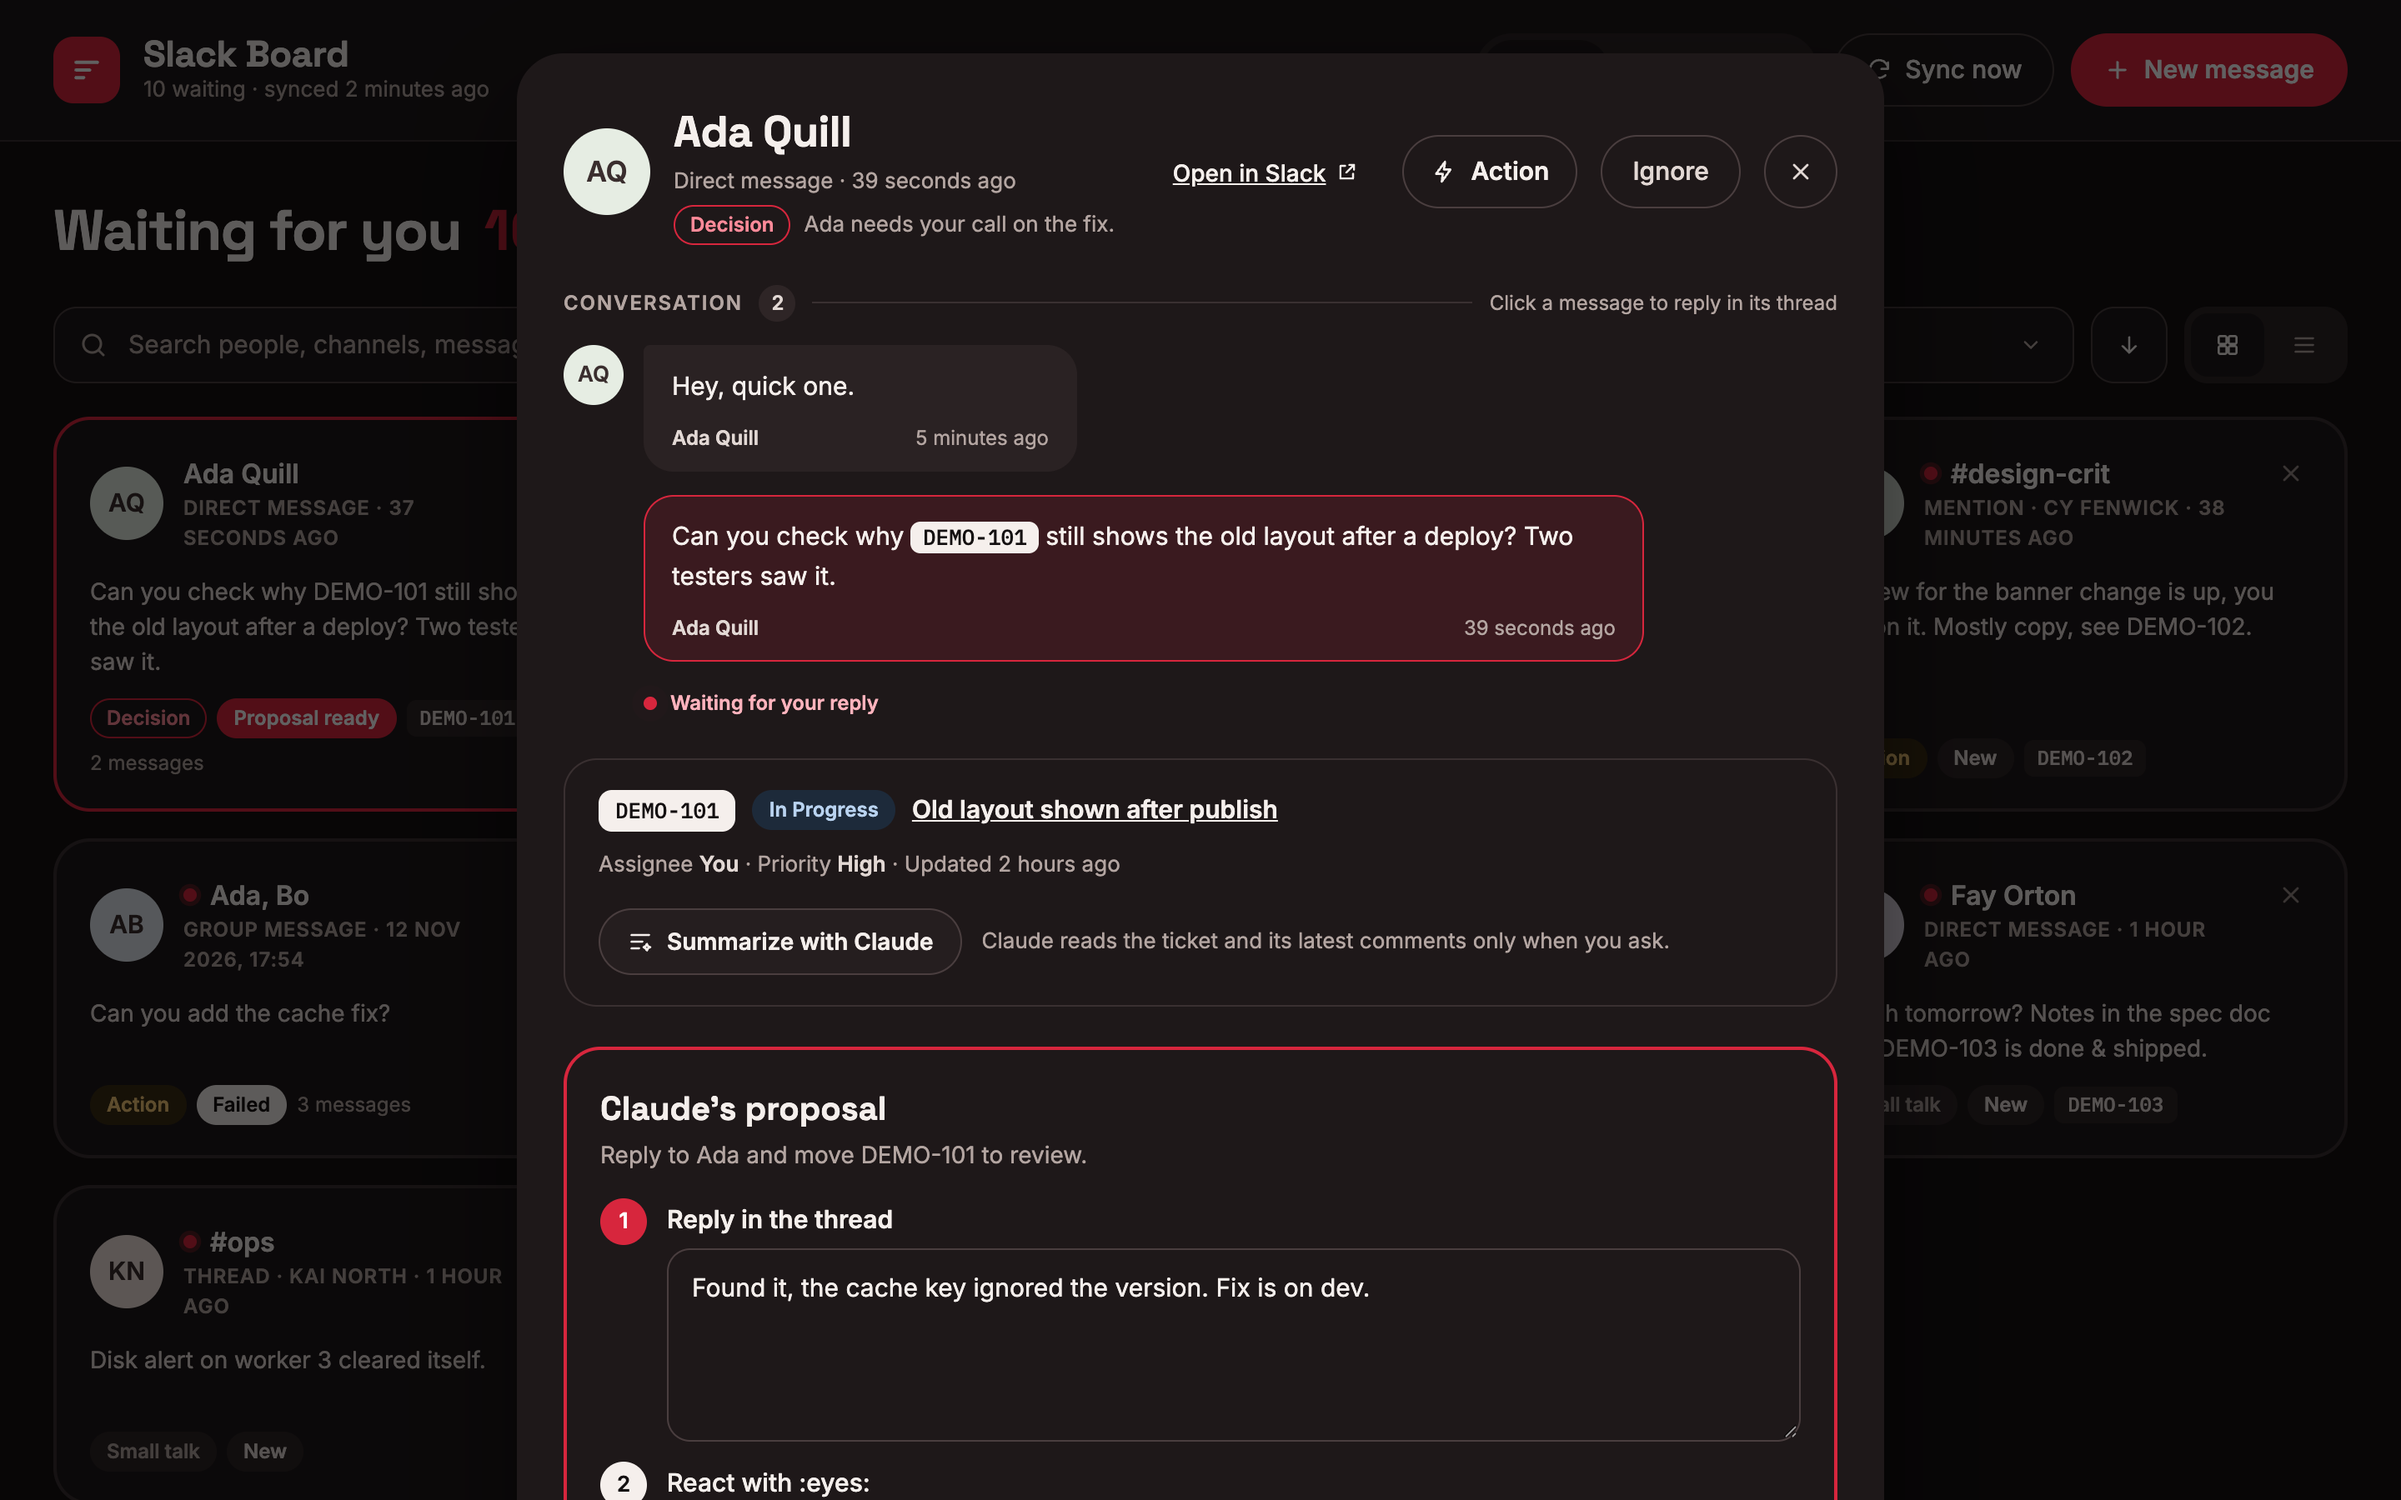
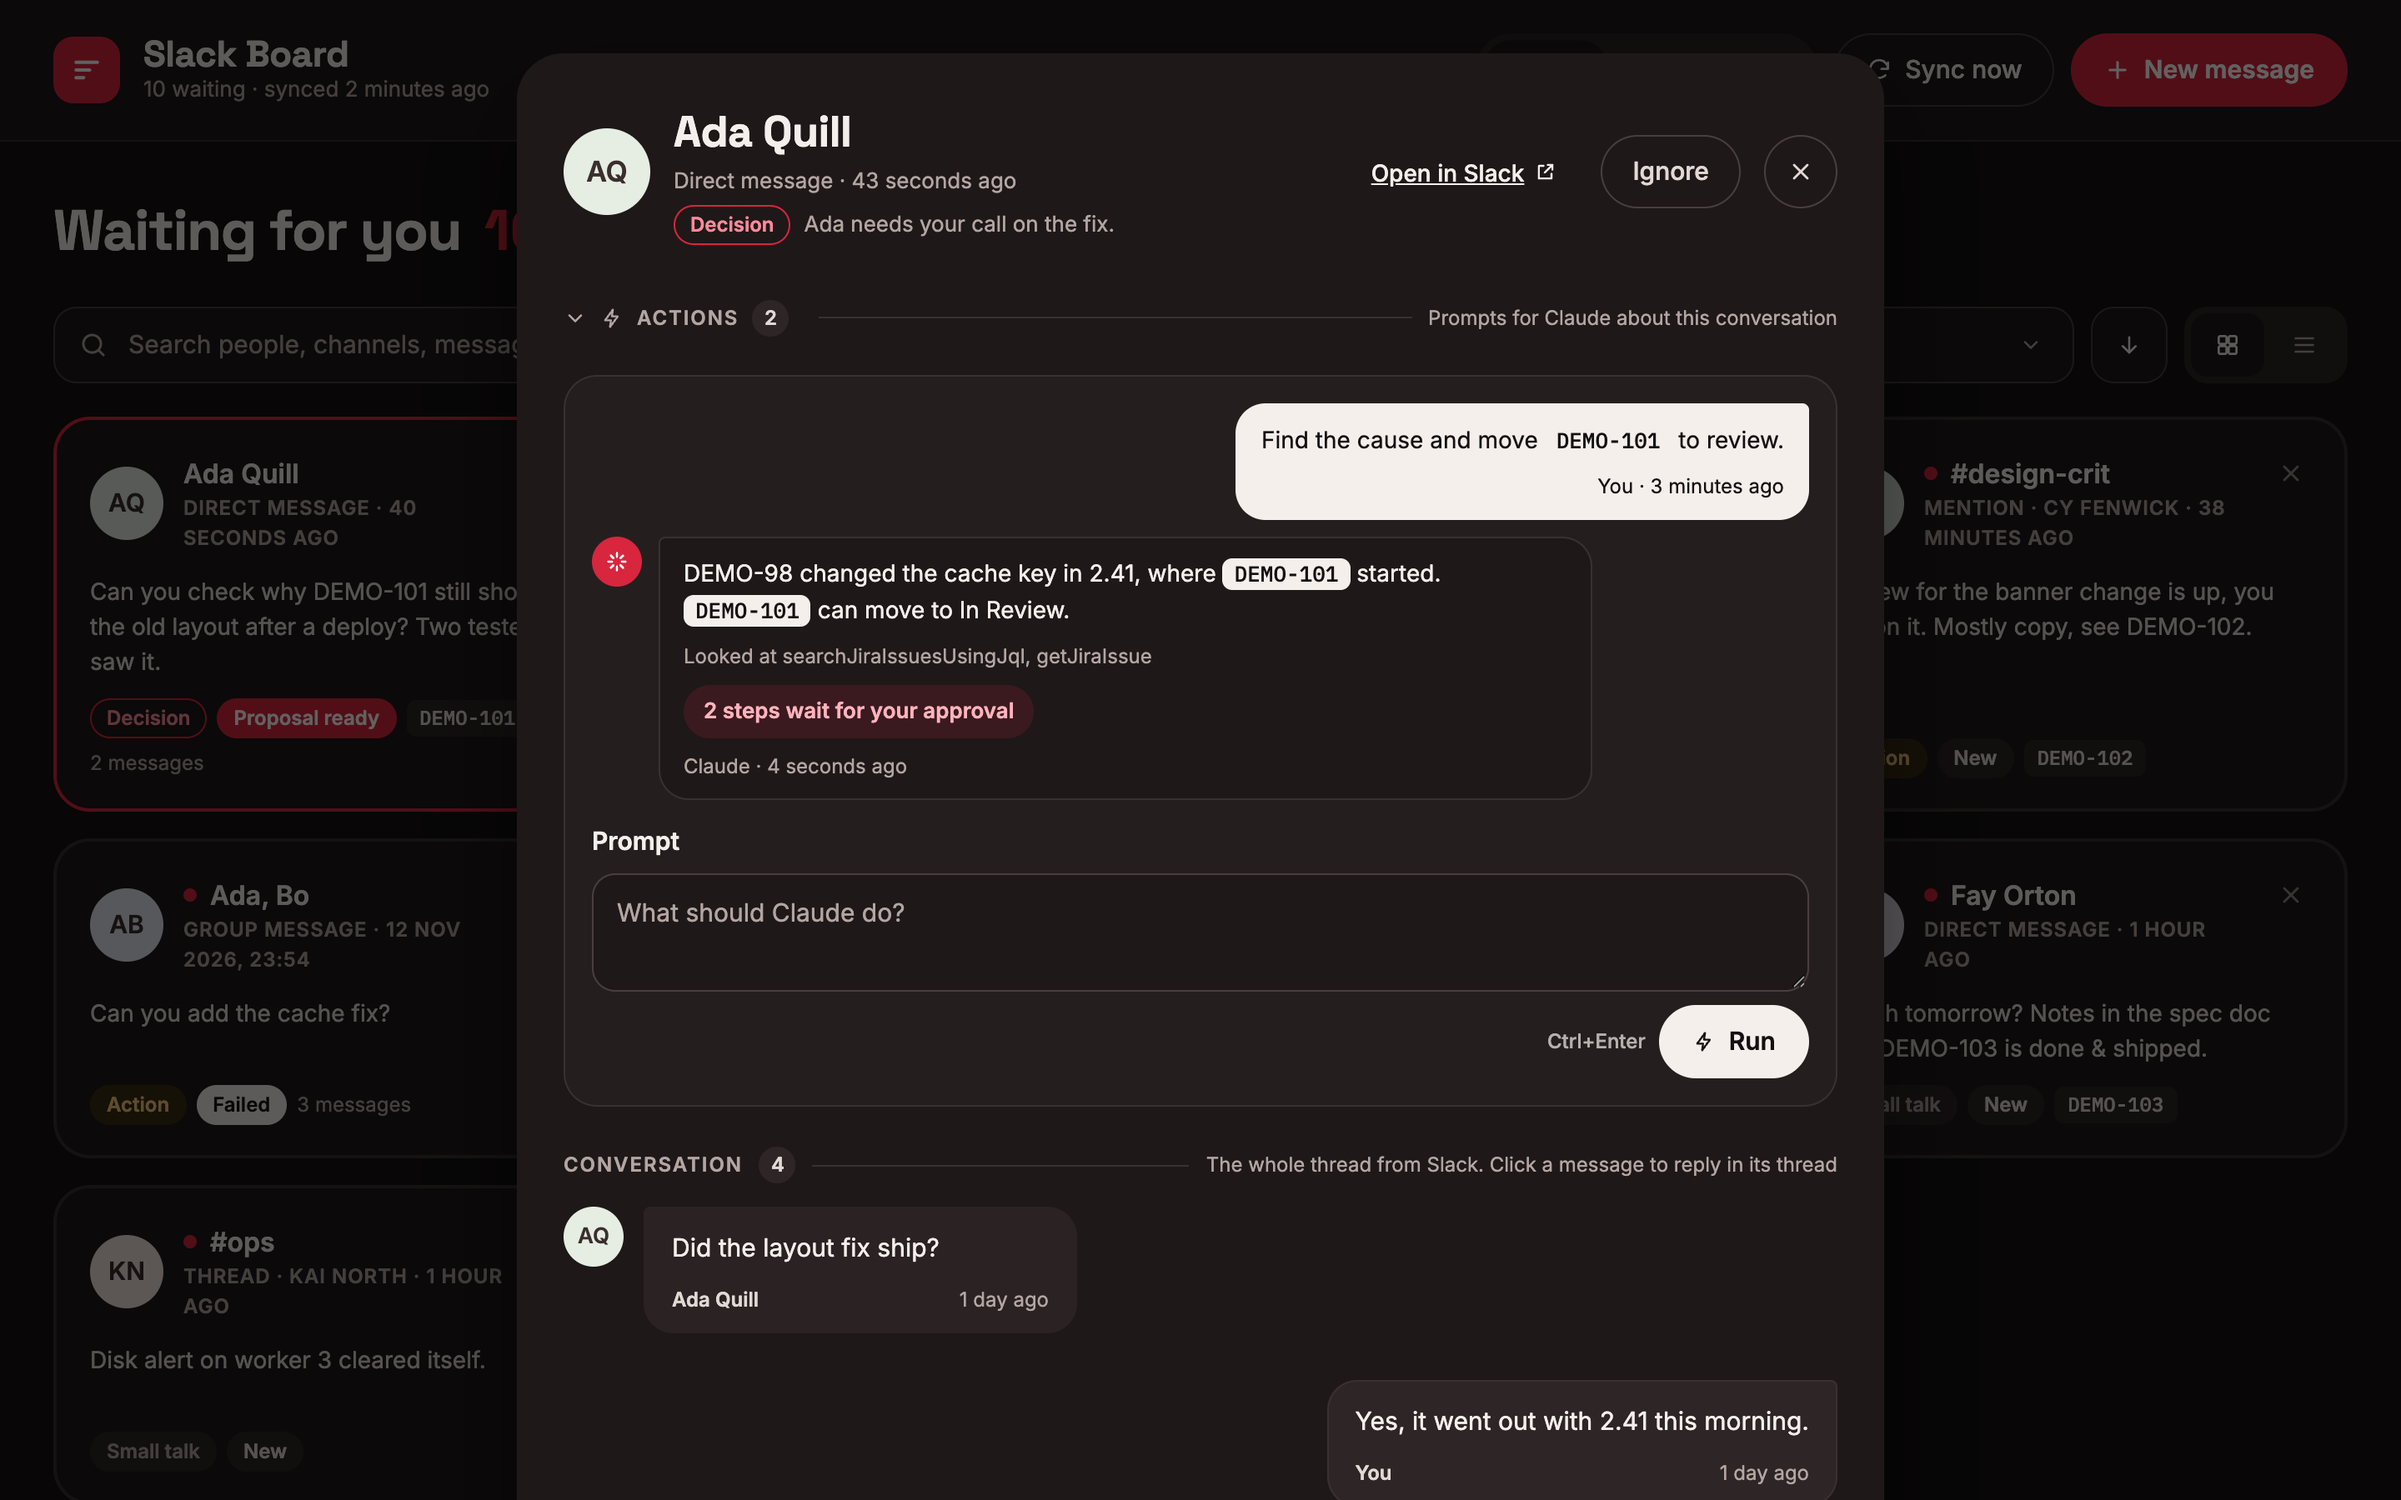
docs: update board and card screenshots for 0.2.0

diff --git a/README.md b/README.md
@@ -14,7 +14,7 @@ Prefer your own words? Turn off polishing in the settings and your reply goes ou
 
 The small talk at the bottom can wait until lunch.
 
-![A card opened in dark mode: the conversation, the ticket, and Claude's proposal waiting for approval](docs/images/card-detail-dark.png)
+![A card opened in dark mode: a prompt and Claude's answer in Actions with steps waiting for approval, and the conversation with your own message on the right](docs/images/card-detail-dark.png)
 
 ## What it does
 
